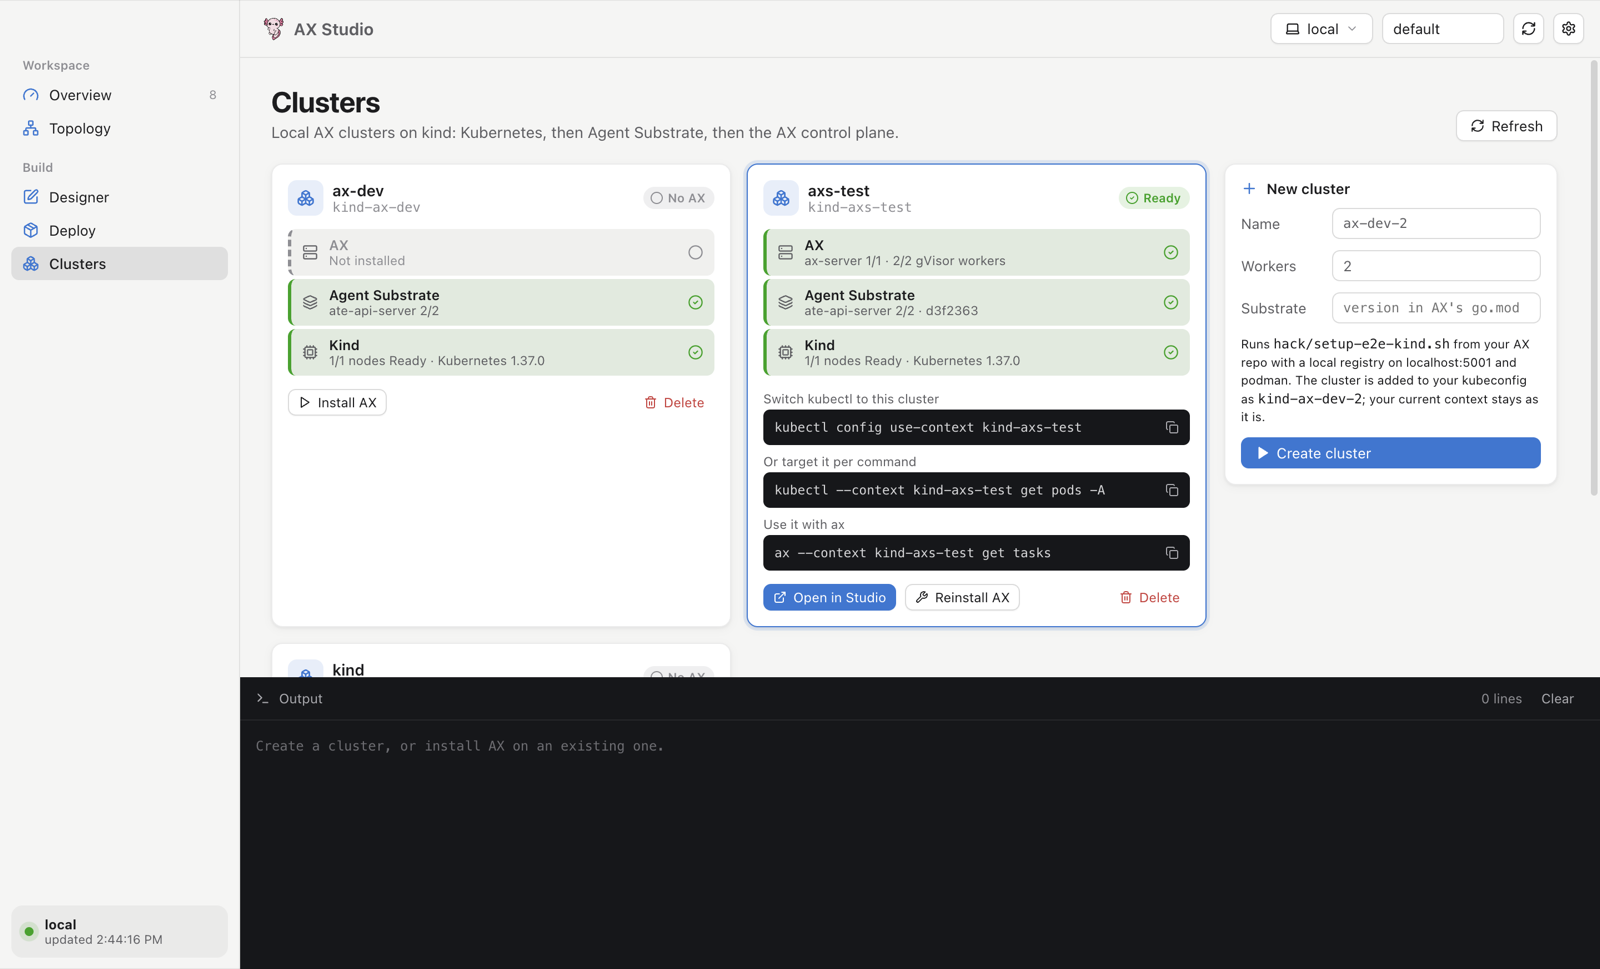
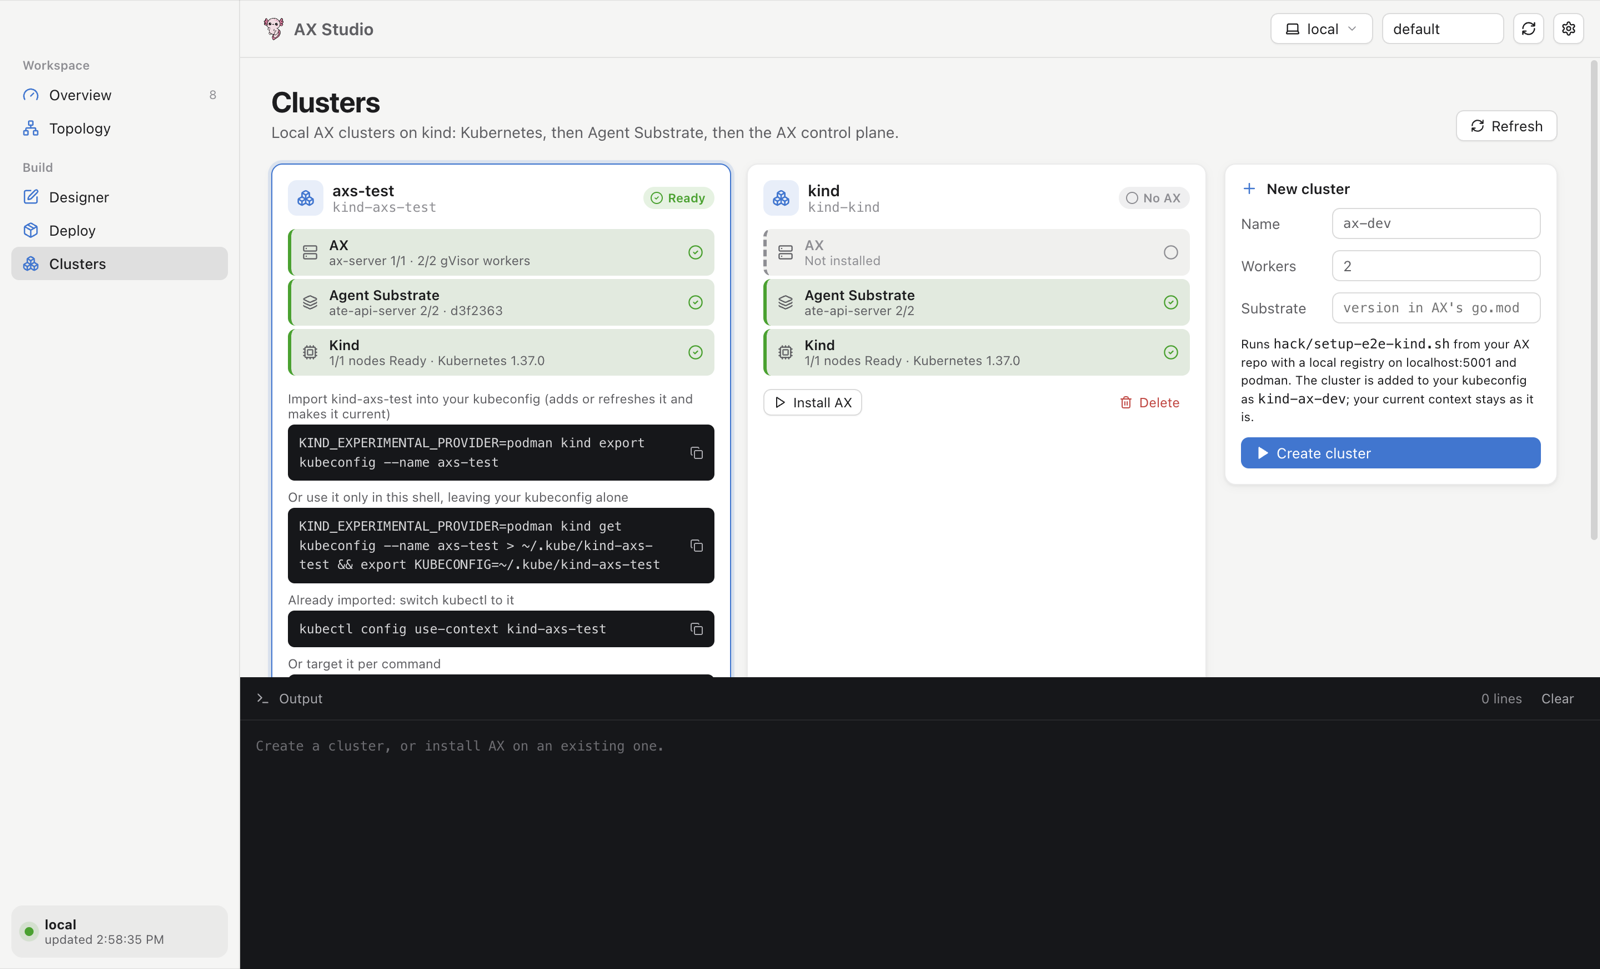
Clusters: show a command to import the cluster's kubectl context
Selecting a cluster now always offers kind export kubeconfig to import
(or refresh) its context, plus a per-shell alternative that writes the
kubeconfig to ~/.kube/kind-<name> and exports KUBECONFIG. Long commands
wrap instead of scrolling.

diff --git a/src/renderer/src/views/Clusters.tsx b/src/renderer/src/views/Clusters.tsx
@@ -173,8 +173,9 @@ function ConnectCommands({ cluster: cl }: { cluster: Cluster }) {
   const c = useClusters()
   const provider = c.runtime?.runtime === 'podman' ? 'KIND_EXPERIMENTAL_PROVIDER=podman ' : ''
   const commands = [
-    ...(cl.inKubeconfig ? [] : [{ note: 'Add the context to your kubeconfig (this also switches to it)', cmd: `${provider}kind export kubeconfig --name ${cl.name}` }]),
-    { note: 'Switch kubectl to this cluster', cmd: `kubectl config use-context ${cl.context}` },
+    { note: `Import ${cl.context} into your kubeconfig (adds or refreshes it and makes it current)`, cmd: `${provider}kind export kubeconfig --name ${cl.name}` },
+    { note: 'Or use it only in this shell, leaving your kubeconfig alone', cmd: `${provider}kind get kubeconfig --name ${cl.name} > ~/.kube/${cl.context} && export KUBECONFIG=~/.kube/${cl.context}` },
+    ...(cl.inKubeconfig ? [{ note: 'Already imported: switch kubectl to it', cmd: `kubectl config use-context ${cl.context}` }] : []),
     { note: 'Or target it per command', cmd: `kubectl --context ${cl.context} get pods -A` },
     ...(cl.ax ? [{ note: 'Use it with ax', cmd: `ax --context ${cl.context} get tasks` }] : []),
   ]

diff --git a/src/renderer/src/styles/clusters.css b/src/renderer/src/styles/clusters.css
@@ -59,6 +59,7 @@
 .connect-cmd {
   gap: 4px; padding: 4px 4px 4px 10px; border-radius: 6px; background: var(--console); color: var(--console-text);
 }
-.connect-cmd code { flex: 1; min-width: 0; font-family: var(--mono); font-size: 11.5px; white-space: nowrap; overflow-x: auto; }
+.connect-cmd { align-items: flex-start; }
+.connect-cmd code { flex: 1; min-width: 0; padding: 4px 0; font-family: var(--mono); font-size: 11.5px; line-height: 1.5; white-space: pre-wrap; overflow-wrap: anywhere; }
 .connect-cmd .btn.ghost { color: #a9a9ae; }
 .connect-cmd .btn.ghost:hover:not(:disabled) { background: rgba(255,255,255,.08); }
